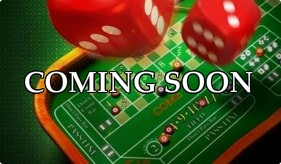
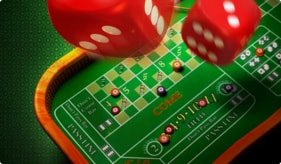
edit home page

Changed region(s): [[0.0854, 0.4268, 0.911, 0.5793]]

diff --git a/index.html b/index.html
@@ -170,7 +170,7 @@
 										total jackpots
 									</span>
 									<span class="jackpot-txt__namber">
-										328.07850804 BTC
+										<span>0</span> BTC
 									</span>
 								</div>
 								<div class="jackpot-txt">
@@ -178,7 +178,7 @@
 										TOTAL WAGERED
 									</span>
 									<span class="jackpot-txt__namber">
-										753,569.21 BTC
+										<span>0</span> BTC
 									</span>
 								</div>
 								<div class="jackpot-txt">
@@ -186,7 +186,7 @@
 										NUMBER OF BETS
 									</span>
 									<span class="jackpot-txt__namber">
-										8,101,963,764
+										<span>0</span>
 									</span>
 								</div>
 							</div>
@@ -213,49 +213,49 @@
 					</nav>
 					<div class="row category-block">
 						<div class="col-md-3 col-sm-6 col-xs-6">
-							<a href="http://showcase.codethislab.com/games/roulette/" class="item-games">
+							<a href="#popup-games" class="item-games popup-with-move-anim">
 								<img src="img/img-game1.jpg" alt="">
 								<span>ROULETTE</span>
 							</a>
 						</div>
 						<div class="col-md-3 col-sm-6 col-xs-6">
-							<a href="#" class="item-games">
+							<a href="#popup-games" class="item-games popup-with-move-anim">
 								<img src="img/img-game2.jpg" alt="">
 								<span>DICE</span>
 							</a>
 						</div>
 						<div class="col-md-3 col-sm-6 col-xs-6">
-							<a href="http://showcase.codethislab.com/games/blackjack/" target="_blank" class="item-games">
+							<a href="#popup-games" class="item-games popup-with-move-anim">
 								<img src="img/img-game3.jpg" alt="">
 								<span>BLACKJACK</span>
 							</a>
 						</div>
 						<div class="col-md-3 col-sm-6 col-xs-6">
-							<a href="https://codecanyon.net/item/craps-html5-casino-game/17924256?s_rank=1" class="item-games">
+							<a href="#popup-games" class="item-games popup-with-move-anim">
 								<img src="img/img-game4.jpg" alt="">
 								<span>card slots</span>
 							</a>
 						</div>
 						<div class="col-md-3 col-sm-6 col-xs-6">
-							<a href="http://showcase.codethislab.com/games/craps/" class="item-games">
+							<a href="#popup-games" class="item-games popup-with-move-anim">
 								<img src="img/img-game5.jpg" alt="">
 								<span>POKER GAMES</span>
 							</a>
 						</div>
 						<div class="col-md-3 col-sm-6 col-xs-6">
-							<a href="http://showcase.codethislab.com/games/slot_the_fruits/" class="item-games">
+							<a href="#popup-games" class="item-games popup-with-move-anim">
 								<img src="img/img-game6.jpg" alt="">
 								<span>slots</span>
 							</a>
 						</div>
 						<div class="col-md-3 col-sm-6 col-xs-6">
-							<a href="http://showcase.codethislab.com/games/keno/" class="item-games">
+							<a href="#popup-games" class="item-games popup-with-move-anim">
 								<img src="img/img-game7.jpg" alt="">
 								<span>card games</span>
 							</a>
 						</div>
 						<div class="col-md-3 col-sm-6 col-xs-6">
-							<a href="#" class="item-games">
+							<a href="#popup-games" class="item-games popup-with-move-anim">
 								<img src="img/img-game8.jpg" alt="">
 								<span>lotto</span>
 							</a>
@@ -359,19 +359,25 @@
 
 	<div class="hidden">
 
+	<div id="popup-games" class="popup-style zoom-anim-dialog">
+		<p>COMING SOON</p>
+	</div>
+
 		<div id="small-dialog" class="zoom-anim-dialog">
 
 			<div class="window-seed">
-				<h1>Save this seed</h1>
+				<h1>
+					Your seed from Mainnet and Testnet is:
+				</h1>
 				<textarea class="popup-textarea" id='seed'></textarea>
 			</div>
 
 			<p id="popup-open-text-after">
-				сохраните эти 12 слов в надежном месте, они понадобятся для авторизации в дальнейшем
+				Please write down your seed phrase. It is impossible to access your fund without your seed.
 			</p>
 
 			<p id="popup-open-text-before">
-				ведите 12 слов полученные в предыдщем окне, если вы забыли их записать, начните сначала
+				Let’s verify your seed phrase
 			</p>
 
 			<div class="window-open-registr dialog-window-two">
@@ -513,15 +519,15 @@
 		}
 		
 		function rebalance() {	
-		$("#balance").html("? ETH");
-		setTimeout(function(){
-		var u='testnet.etherscan.io';
-		if (localStorage.getItem("mainnet") == "on") u='api.etherscan.io';
-			$.get("https://"+u+"/api?module=account&action=balance&address="+localStorage.getItem("openkey")+"&tag=latest&apikey=YourApiKeyToken",function (d){
-				$("#balance").html(d.result/1000000000000000000+" ETH");
-			});
-			
-		},1000);
+			$("#balance").html("? ETH");
+			setTimeout(function(){
+				var u='testnet.etherscan.io';
+				if (localStorage.getItem("mainnet") == "on") u='api.etherscan.io';
+				$.get("https://"+u+"/api?module=account&action=balance&address="+localStorage.getItem("openkey")+"&tag=latest&apikey=YourApiKeyToken",function (d){
+					$("#balance").html(d.result/1000000000000000000+" ETH");
+				});
+
+			},1000);
 		}
 		
 	</script>

diff --git a/css/main.min.css b/css/main.min.css
@@ -48,9 +48,9 @@ h1, h2, h3, h4, h5, h6{padding:0;margin:0;}
 .mobile-menu .registration button{font-size:17px;width:137px;}
 .mobile-menu .log-in-mobile{float:left;color:#fff;background:#d08c49;}
 .mobile-menu .registration{margin-top:30px;padding-bottom:20px;border-bottom:1px solid #d08c49;margin-bottom:15px;}
-header{max-width:2000px;width:100%;margin:0 auto;padding-bottom:65px;}
-.wrapper-block__logo{width:100%;position:absolute;top:70px;left:0;}
-.wrapper-lofo{max-width:2000px;margin:0 auto;padding-left:68px;padding-right:76px;}
+header{max-width:2000px;width:100%;margin:0 auto;padding-bottom:40px;}
+.wrapper-block__logo{/*width:100%;position:absolute;top:70px;left:0;*/position: relative;top: 0;margin: 30px auto 0;}
+.wrapper-lofo{/*max-width:2000px;*/max-width:1232px;margin:0 auto;/*padding-left:68px;padding-right:76px;*/padding-left:0px;padding-right:0px;}
 .wrapper-header{max-width:1232px;width:100%;margin:73px auto 0;}
 .wrapper-block__logo,
 .logo,
@@ -137,7 +137,7 @@ nav.main-top-menu{max-height: 78px;overflow: hidden;}
 .search-games input::-moz-placeholder{font:13px/normal "ProximaNova-Bold";color:#fff;text-transform:uppercase;}
 .search-games input:-moz-placeholder{font:13px/normal "ProximaNova-Bold";color:#fff;text-transform:uppercase;}
 .search-games input:-ms-input-placeholder{font:13px/normal "ProximaNova-Bold";color:#fff;text-transform:uppercase;}
-a.item-games{font:23px/normal "ProximaNova-Bold", Arial;display:block;position:relative;text-decoration:none;border-radius:3px;overflow:hidden;margin-bottom:18px;-webkit-box-shadow:0px 1px 4px 1px rgba(0, 0, 0, 0.5);-moz-box-shadow:0px 1px 4px 1px rgba(0, 0, 0, 0.5);-ms-box-shadow:0px 1px 4px 1px rgba(0, 0, 0, 0.5);-o-box-shadow:0px 1px 4px 1px rgba(0, 0, 0, 0.5);box-shadow:0px 1px 4px 1px rgba(0, 0, 0, 0.5);}
+a.item-games{font:23px/normal "ProximaNova-Bold", Arial;display:block;position:relative;text-decoration:none;border-radius:3px;outline:none;overflow:hidden;margin-bottom:18px;-webkit-box-shadow:0px 1px 4px 1px rgba(0, 0, 0, 0.5);-moz-box-shadow:0px 1px 4px 1px rgba(0, 0, 0, 0.5);-ms-box-shadow:0px 1px 4px 1px rgba(0, 0, 0, 0.5);-o-box-shadow:0px 1px 4px 1px rgba(0, 0, 0, 0.5);box-shadow:0px 1px 4px 1px rgba(0, 0, 0, 0.5);}
 .item-games:before{content:"";position:absolute;display:block;width:100%;max-height:130px;height:100%;left:0;bottom:0;background:-moz-linear-gradient(top, rgba(0,0,0,0) 0%, rgba(0,0,0,0.7) 100%);background:-webkit-linear-gradient(top, rgba(0,0,0,0) 0%,rgba(0,0,0,0.7) 100%);background:linear-gradient(to bottom, rgba(0,0,0,0) 0%,rgba(0,0,0,0.7) 100%);filter:progid:DXImageTransform.Microsoft.gradient(startColorstr='#00000000', endColorstr='#a6000000',GradientType=0);z-index:100;}
 .item-games img{border-radius:4px;-webkit-transition:all .35s ease-out;-ms-transition:all .35s ease-out;-o-transition:all .35s ease-out;transition:all .35s ease-out;}
 .item-games:hover img{border-radius:4px;-webkit-transform:scale(1.05);-ms-transform:scale(1.05);-o-transform:scale(1.05);transform:scale(1.05);}

diff --git a/css/media.min.css b/css/media.min.css
@@ -1,7 +1,8 @@
-@media only screen and (max-width:2000px){.wrapper-block__logo{position:absolute;}
-.wrapper-lofo{max-width:2000px;margin:0 auto;padding-left:68px;padding-right:76px;}
+@media only screen and (max-width:2000px){/*.wrapper-block__logo{position:absolute;}*/
+.wrapper-block__logo{max-width: 1232px;position: relative;top: 0;margin: 30px auto 0;}
+.wrapper-lofo{max-width:2000px;margin:0 auto;/*padding-left:68px;padding-right:76px;*/padding-left:0px;padding-right:0px;}
 }
-@media only screen and (max-width:1800px){.wrapper-lofo{padding-left:40px;padding-right:70px;}
+@media only screen and (max-width:1800px){.wrapper-lofo{/*padding-left:40px;padding-right:70px;*/padding-left:0px;padding-right:0px;}
 }
 @media only screen and (max-width:1750px){.wrapper-block__logo{max-width:1232px;position:relative;top:0;margin:30px auto 0;}
 .wrapper-lofo{padding-left:0px;padding-right:0px;}
